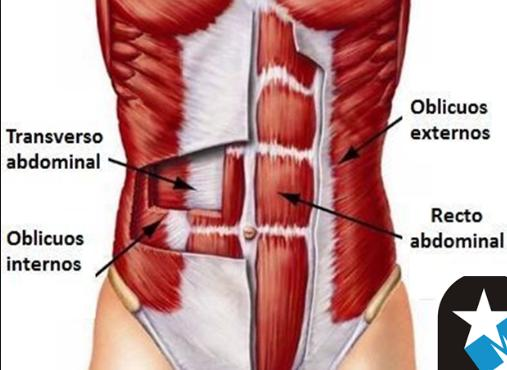
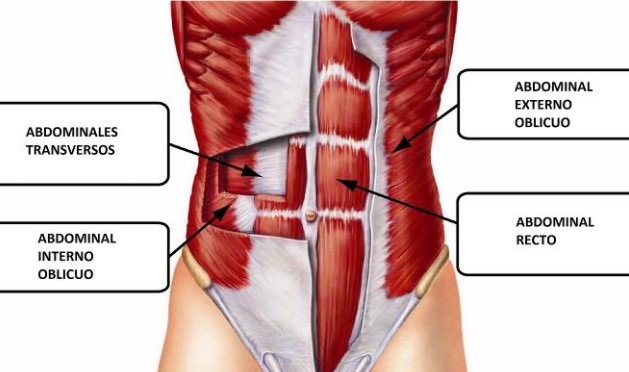
paginas añadidas

diff --git a/transversal.html b/transversal.html
@@ -1,0 +1,78 @@
+<!DOCTYPE html>
+<html lang="en">
+
+<head>
+    <meta charset="utf-8" />
+    <meta name="viewport" content="width=device-width, initial-scale=1" />
+    <link href="https://cdn.jsdelivr.net/npm/bootstrap@5.0.0-beta3/dist/css/bootstrap.min.css" rel="stylesheet"
+        integrity="sha384-eOJMYsd53ii+scO/bJGFsiCZc+5NDVN2yr8+0RDqr0Ql0h+rP48ckxlpbzKgwra6" crossorigin="anonymous" />
+    <link rel="stylesheet" href="https://cdn.jsdelivr.net/npm/bootstrap-icons@1.4.1/font/bootstrap-icons.css" />
+    <link rel="stylesheet" href="estilos.css" />
+    <title>Abdomen Transversal</title>
+</head>
+
+<body style="background-color: black;">
+    <main class="container text-light">
+        <h1>Los abdominales tranversales</h1>
+        <div class="float-start">
+            <img  width="99%" style="object-fit: cover; object-position: center; width: 95%; height: 700px; margin-bottom: 20px; margin-right: 20px"
+            src="imagenes/transversoAbd.png" usemap="#imgmap"/>
+        </div>
+        <p class="center-justified" style="margin-left: 30px;">
+            Es el músculo abdominal más profundo, cubre toda el area media del cuerpo, ya que va desde la columna vertebral hasta la cara delantera del abdomen, siendo que tienen la forma de una faja. 
+            <br/>Igualmente, este musculo es importante y que influye al momento toser, estornudar y a la hora de realizar un sobreesfuerzo en dicha zona. 
+        </p>
+        <h3>
+         ¿Con qué ejercicios se trabaja?   
+        </h3>
+        <p style="margin-left: 20px;">
+            Se puede trabajar con ejercicios como: Afrodita.
+        </p>
+        <h3>
+          Descubre como realizar los ejercicios  
+        </h3>
+    </main>
+        <div class="container">
+            <div clas="row">
+                <div class="col">
+                   <a href="ejercicio.html" >
+                       <!-- <iframe width="270" height="200" src="https://www.youtube.com/embed/MY_gyv3ZDLE" style="margin-left: 20px;"
+                       title="YouTube video player" frameborder="0" allow="accelerometer; autoplay; clipboard-write; encrypted-media; gyroscope; picture-in-picture" allowfullscreen>
+                       </iframe> -->
+                       <button id="rut1" class="btn bg-success text-light" style="width: 150px; height: 100px; margin-right: 20px; margin-left: 10px; margin-bottom: 5px; margin-top: 10px;">Rutina 1</button>
+                       </a> 
+                </div>
+                <div class="col">
+                   <a href="ejercicio.html" class="col">
+                       <button id="rut2" class="btn bg-danger text-light" style="width: 150px; height: 100px; margin-right: 20px; margin-left: 10px; margin-bottom: 10px; margin-top: 5px">Rutina 2</button>
+                   </a>
+                </div>
+            </div>
+        </div>
+       
+        <!-- <iframe width="270" height="200" src="https://www.youtube.com/embed/MY_gyv3ZDLE" style="margin-left: 20px;"
+        title="YouTube video player" frameborder="0" allow="accelerometer; autoplay; clipboard-write; encrypted-media; gyroscope; picture-in-picture" allowfullscreen>
+        </iframe> -->
+
+    <a href="brazos.html" style="margin-left: 10px; margin-right: 5px">
+        <button id="atrasP" class="btn bg-white">Regresar</button>
+    </a>
+    <a href="index.html" style=" margin-left: 5px; margin-right: 10px">
+        <button id="atrasP" class="btn bg-warning">Inicio</button>
+    </a>
+    <!-- <div clas="d-inline-flex">
+        <div>
+            <iframe width="373" height="210" src="https://www.youtube.com/embed/MY_gyv3ZDLE" title="YouTube video player" frameborder="0" allow="accelerometer; autoplay; clipboard-write; encrypted-media; gyroscope; picture-in-picture" allowfullscreen>
+            </iframe>
+        </div>
+        <div>
+            <iframe width="373" height="210" src="https://www.youtube.com/embed/MY_gyv3ZDLE" title="YouTube video player" frameborder="0" allow="accelerometer; autoplay; clipboard-write; encrypted-media; gyroscope; picture-in-picture" allowfullscreen>
+            </iframe>
+        </div>
+    </div>    -->
+    <script src="https://cdn.jsdelivr.net/npm/bootstrap@5.0.0-beta3/dist/js/bootstrap.bundle.min.js"
+        integrity="sha384-JEW9xMcG8R+pH31jmWH6WWP0WintQrMb4s7ZOdauHnUtxwoG2vI5DkLtS3qm9Ekf"
+        crossorigin="anonymous"></script>
+</body>
+
+</html>

diff --git a/abdomen.html b/abdomen.html
@@ -8,7 +8,7 @@
         integrity="sha384-eOJMYsd53ii+scO/bJGFsiCZc+5NDVN2yr8+0RDqr0Ql0h+rP48ckxlpbzKgwra6" crossorigin="anonymous" />
     <link rel="stylesheet" href="https://cdn.jsdelivr.net/npm/bootstrap-icons@1.4.1/font/bootstrap-icons.css" />
     <link rel="stylesheet" href="estilos.css"/>
-    <title>Piernas</title>
+    <title>Abdomen</title>
 </head>
 
 <body style="background-color: black;">
@@ -17,10 +17,10 @@
 
     </main> 
     <div>
-        <img style="object-fit: cover; object-position: center; width: 100%; margin-bottom: 20px;"
-        src="imagenes/piernas.jpg" usemap="#imgmap"/>
+        <img style="object-fit: cover; object-position: center; width: 100%;"
+        src="imagenes/abdomen.jpg" usemap="#imgmap"/>
         <map name="imgmap">
-            <area shape="rect" coords="0,0,250,250" href="gluteos.html">
+            <area shape="rect" coords="0,0,350,550" href="transversal.html">
         </map>   
     </div>
     <a href="index.html">

diff --git a/index.html b/index.html
@@ -45,7 +45,9 @@
      </div>
      <div class="row" style="margin-bottom: 20px;">
         <div class="col btn"  style="margin-bottom: 20px;">
+            <a href="abdomen.html">
             <button id="abdomen" class="bg-info text-light" style="width: 350px; height: 100px">Abdomen</button>
+            </a>
         </div>  
         <div class="col btn"  style="margin-bottom: 20px;">
             <button id="espalda" class=" text-light" style="width: 350px; height: 100px; background-color: var(--bs-purple)">Espalda</button>
